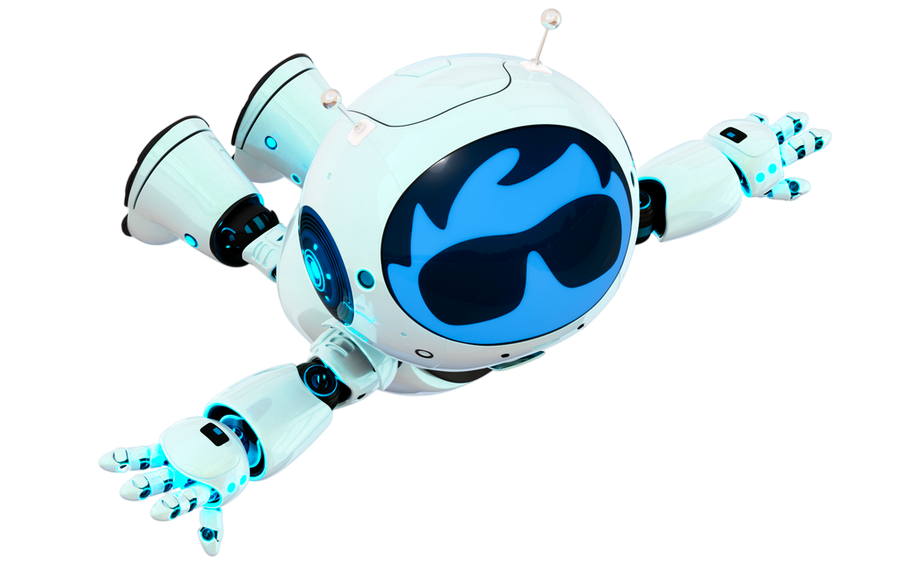
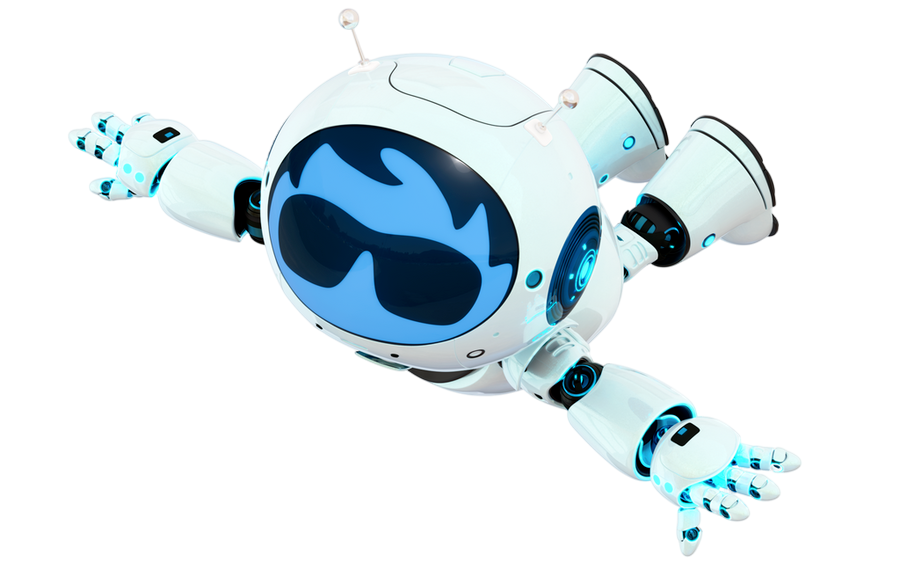
Reemplazar imagen del robot con nuevo diseño y reducir tamaño al 85%

diff --git a/src/styles/hero.css b/src/styles/hero.css
@@ -184,7 +184,7 @@
 }
 
 .hero-image {
-  max-width: 100%;
+  max-width: 85%;
   height: auto;
   margin: 20px 0;
   display: block;
